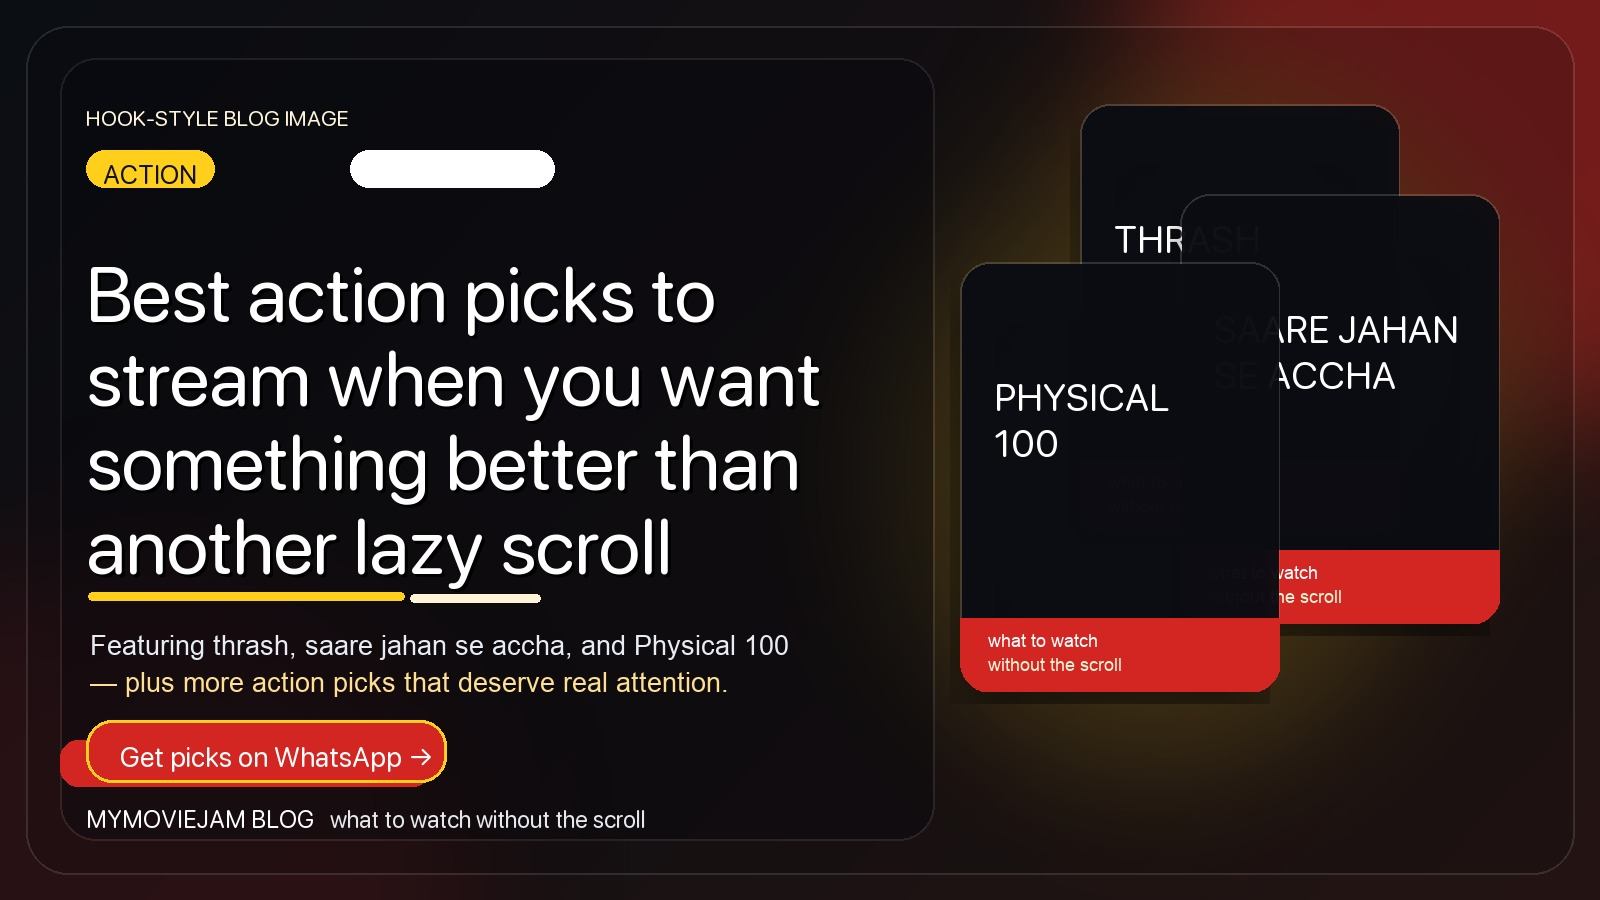
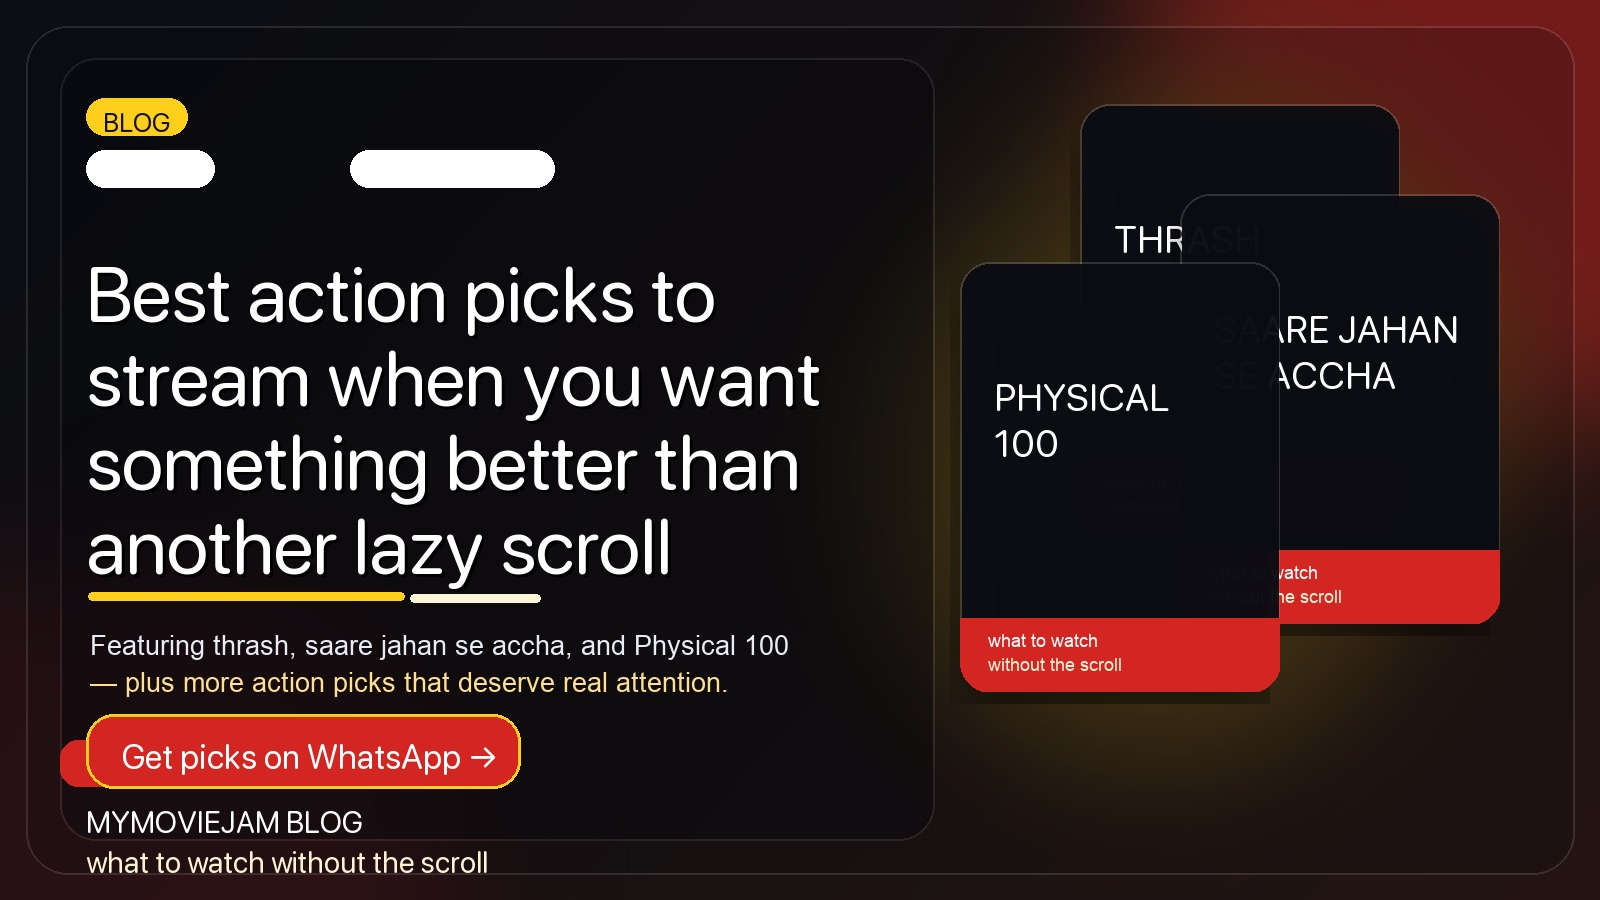
Refine blog hero typography

Changed region(s): [[0.0312, 0.7778, 0.4062, 0.9644], [0.0312, 0.0933, 0.2188, 0.2178]]

diff --git a/scripts/blog_pipeline_hero.py b/scripts/blog_pipeline_hero.py
@@ -179,13 +179,12 @@ def main():
     draw = ImageDraw.Draw(img)
     eyebrow_font = load_font(FONT_CANDIDATES_BOLD, 26)
     subtitle_font = load_font(FONT_CANDIDATES_REGULAR, 27)
-    footer_font = load_font(FONT_CANDIDATES_BOLD, 24)
-    cta_font = load_font(FONT_CANDIDATES_BOLD, 28)
-    micro_font = load_font(FONT_CANDIDATES_BOLD, 22)
+    footer_font = load_font(FONT_CANDIDATES_BOLD, 30)
+    cta_font = load_font(FONT_CANDIDATES_BOLD, 34)
     title_font, title_lines = fit_title_font(draw, args.title, 748, 4, start_size=94, min_size=56)
 
-    draw.text((86, 104), "HOOK-STYLE BLOG IMAGE", font=micro_font, fill=(255, 245, 220))
-    draw_pill(draw, 86, 150, args.eyebrow.upper()[:34], eyebrow_font, fill=accent + (255,), text_fill=(18, 18, 22))
+    draw_pill(draw, 86, 98, "BLOG", eyebrow_font, fill=accent + (255,), text_fill=(18, 18, 22))
+    draw_pill(draw, 86, 150, args.eyebrow.upper()[:34], eyebrow_font, fill=(255, 255, 255, 28), text_fill=(255, 255, 255), outline=(255, 255, 255, 50))
     draw_pill(draw, 350, 150, "MYMOVIEJAM", eyebrow_font, fill=(255, 255, 255, 28), text_fill=(255, 255, 255), outline=(255, 255, 255, 50))
 
     y = 246
@@ -206,10 +205,10 @@ def main():
         draw.text((90, y), line, font=subtitle_font, fill=color)
         y += subtitle_font.size + 10
 
-    draw.rounded_rectangle((86, 720, 446, 782), radius=26, fill=accent2, outline=accent, width=3)
-    draw.text((120, 739), "Get picks on WhatsApp →", font=cta_font, fill=(255, 255, 255))
+    draw.rounded_rectangle((86, 714, 520, 788), radius=28, fill=accent2, outline=accent, width=3)
+    draw.text((122, 736), "Get picks on WhatsApp →", font=cta_font, fill=(255, 255, 255))
     draw.text((86, 804), "MYMOVIEJAM BLOG", font=footer_font, fill=(255, 255, 255))
-    draw.text((330, 804), "what to watch without the scroll", font=footer_font, fill=(230, 232, 236))
+    draw.text((86, 844), "what to watch without the scroll", font=footer_font, fill=(255, 244, 214))
 
     img.convert("RGB").save(out_path, quality=92)
     print(out_path)
